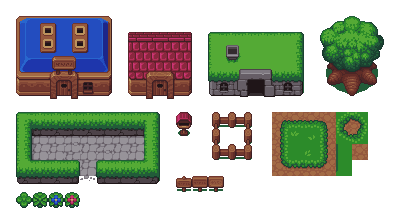
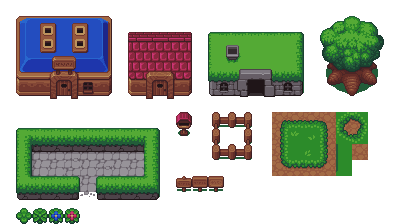
work on rendering whole building

Changed region(s): [[0.03, 0.5, 0.42, 1.0]]

diff --git a/game/world.go b/game/world.go
@@ -100,7 +100,7 @@ func (m *Map) Init() error {
 		x:           15,
 		y:           15,
 		width:       7,
-		height:      6,
+		height:      7,
 		tileXY:      utils.CombineNumbers(float64(1), float64(1)),
 	})
 
@@ -110,7 +110,7 @@ func (m *Map) Init() error {
 		x:           239,
 		y:           15,
 		width:       7,
-		height:      6,
+		height:      7,
 		tileXY:      utils.CombineNumbers(float64(1), float64(1)),
 	})
 
@@ -120,7 +120,7 @@ func (m *Map) Init() error {
 		x:           463,
 		y:           15,
 		width:       7,
-		height:      6,
+		height:      7,
 		tileXY:      utils.CombineNumbers(float64(1), float64(1)),
 	})
 
